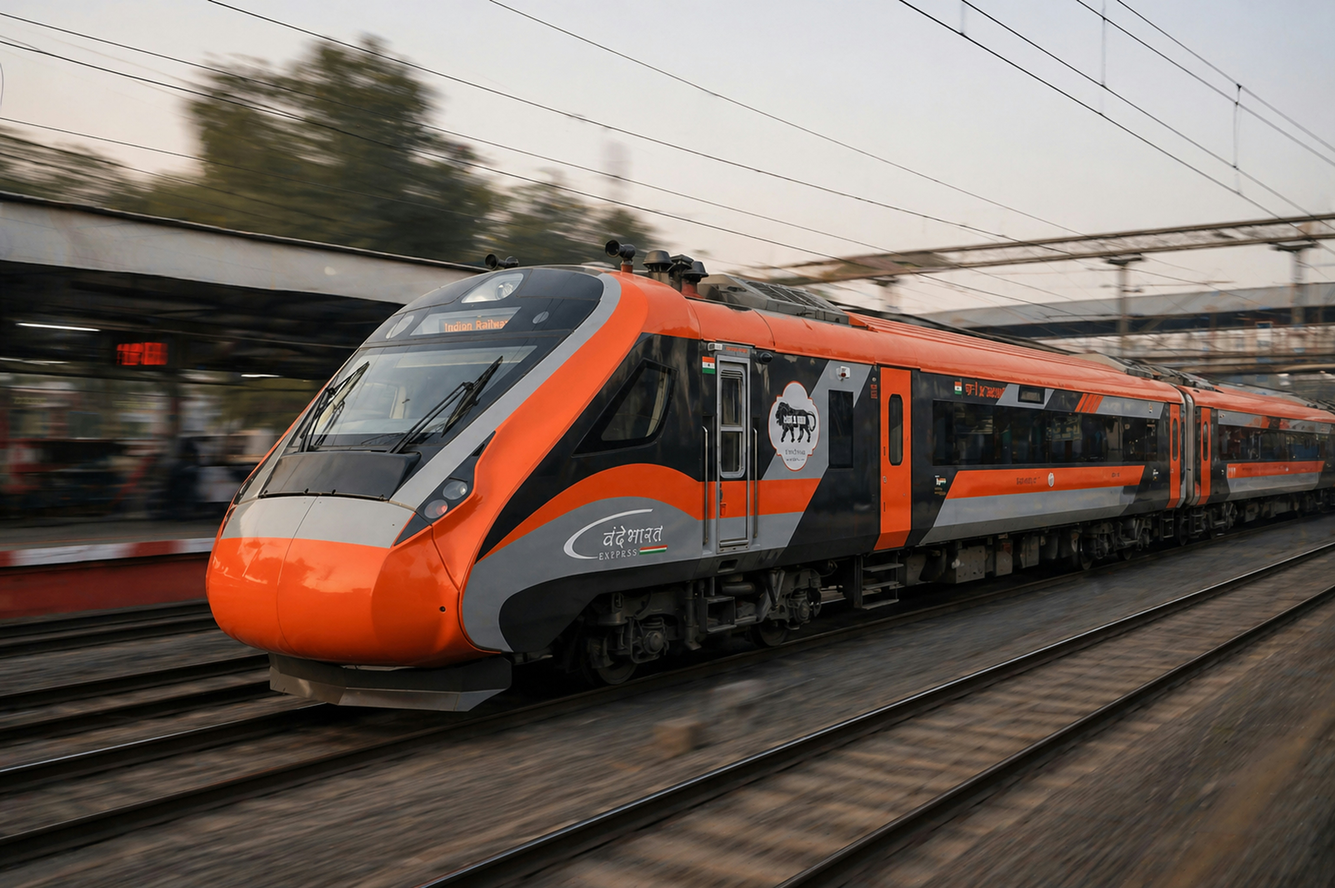
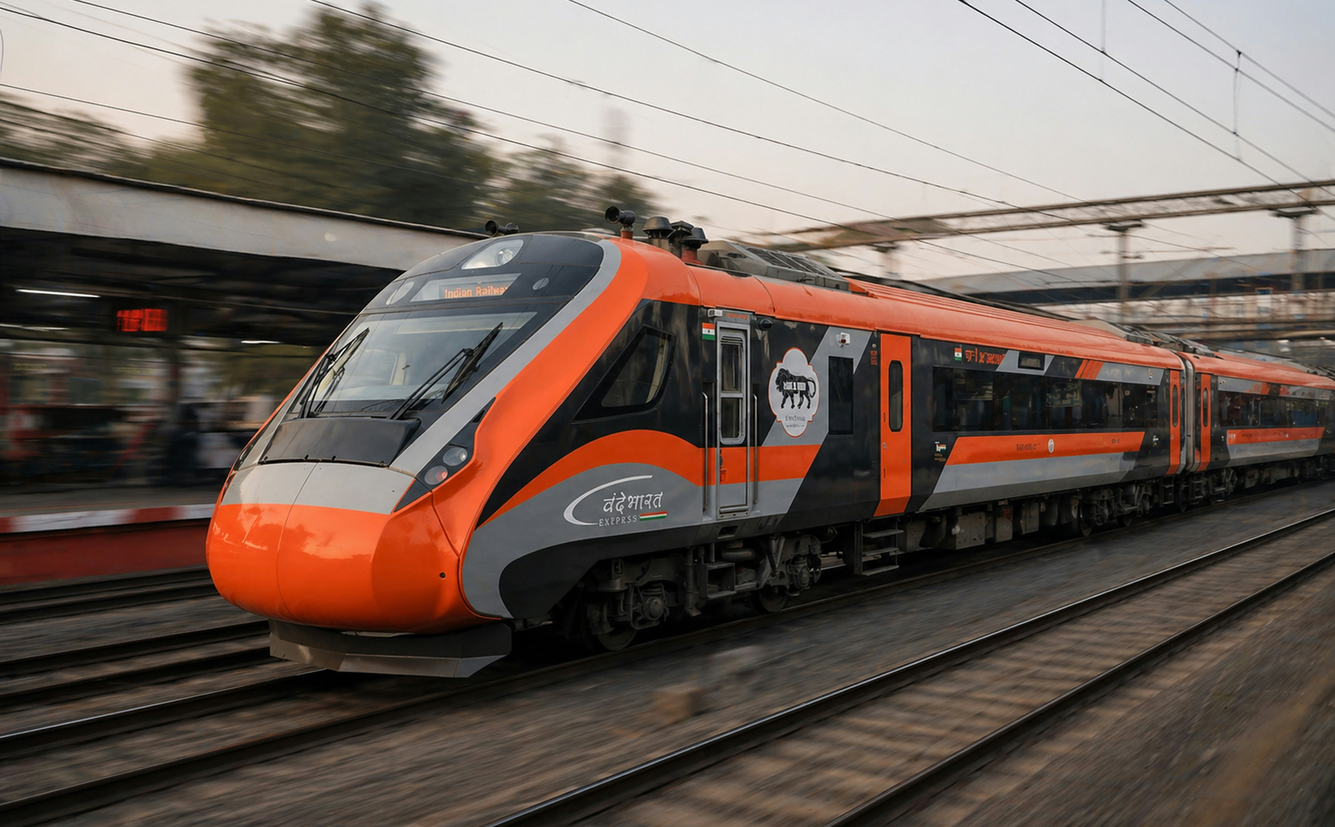
Add files via upload

diff --git a/Alstom HW Academy.py b/Alstom HW Academy.py
@@ -1359,10 +1359,10 @@ if st.session_state.current_page == "landing":
 
     with card3:
         try:
-            img3 = resize_image_to_height("specialized_paths.jpg", 320)
+            img3 = resize_image_to_height("specialized_paths.jpeg", 320)
             st.image(img3, use_container_width=True)
         except:
-            st.info("Add image: specialized_paths.jpg")
+            st.info("Add image: specialized_paths.jpeg")
         st.markdown("""
         <div style="padding:8px 10px 12px 6px;">
             <h3 style="color:#0B3D91; margin-top:0px; margin-bottom:6px;">Specialized Paths</h3>
